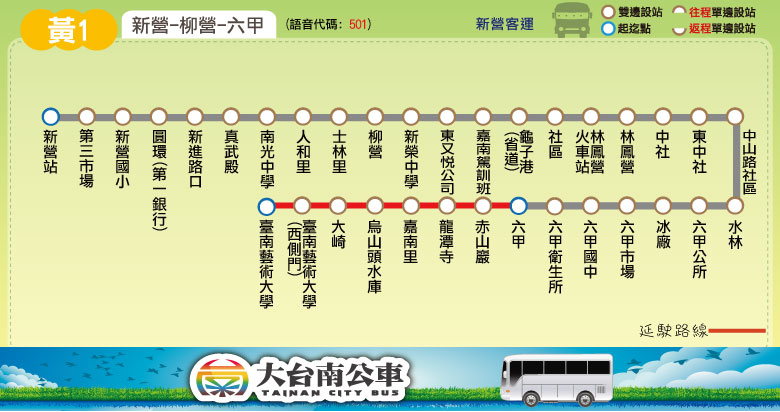
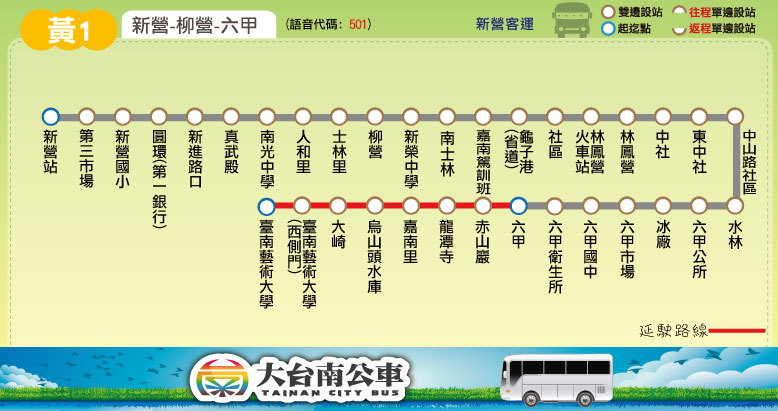
站位更名：黃幹線、黃1、黃2(「東又悅公司」更名為「南士林」)

diff --git a/route/fare_and_time/yellow.js b/route/fare_and_time/yellow.js
@@ -8,7 +8,7 @@ yellow_interval_stop = [ // 2015.08.31 checked
 ["土庫里","卯舍","新營客運管理中心","東仁、長榮路口","東興、長榮路口","東興國宅","新東國中","臺南市農會","新營公所","文化中心",
 "新營國小","第三市場","新營站","三商","中山路","第一市場","真武殿","南光中學"], // 新營
 ["副產","實驗所"], // 副產
-["柳營奇美醫院","鳳和中學","柳營火車站","中華電信","柳營","新榮中學","東又悅公司"], // 柳營
+["柳營奇美醫院","鳳和中學","柳營火車站","中華電信","柳營","新榮中學","南士林"], // 柳營
 ["嘉南駕訓班","龜子港"], // 龜子港
 ["麻豆寮","洲子","嘉鴻公司"], // 麻豆寮
 ["下營國中","農會超市","下營公所","下營廟前","下營衛生所","給水站","右武衛公園"], // 下營

diff --git a/route/fare_and_time/yellow_1.js b/route/fare_and_time/yellow_1.js
@@ -2,7 +2,7 @@ yellow_1_interval_name = ["新營","人和里","柳營","龜子港","林鳳營",
 yellow_1_interval_stop = [ // 2015.12.03 checked
 ["新營站","第三市場","新營國小","圓環(第一銀行)","新進路口","真武殿","南光中學"], // 新營
 ["人和里"], // 人和里
-["士林里","柳營","新榮中學","東又悅公司"], // 柳營
+["士林里","柳營","新榮中學","南士林"], // 柳營
 ["嘉南駕訓班","龜子港(省道)","社區"], // 龜子港
 ["林鳳營火車站","林鳳營"], // 林鳳營
 ["中社","東中社"], // 中社

diff --git a/route/fare_and_time/yellow_2.js b/route/fare_and_time/yellow_2.js
@@ -2,7 +2,7 @@ yellow_2_interval_name = ["新營","人和里","柳營","龜子港","林鳳營",
 yellow_2_interval_stop = [ // 2016.02.04 checked
 ["新營站","第三市場","新營國小","圓環(第一銀行)","新進路口","真武殿","南光中學"], // 新營
 ["人和里"], // 人和里
-["士林里","柳營","新榮中學","東又悅公司"], // 柳營
+["士林里","柳營","新榮中學","南士林"], // 柳營
 ["嘉南駕訓班","龜子港(省道)","社區"], // 龜子港
 ["林鳳營火車站","林鳳營"], // 林鳳營
 ["中社","東中社"], // 中社
